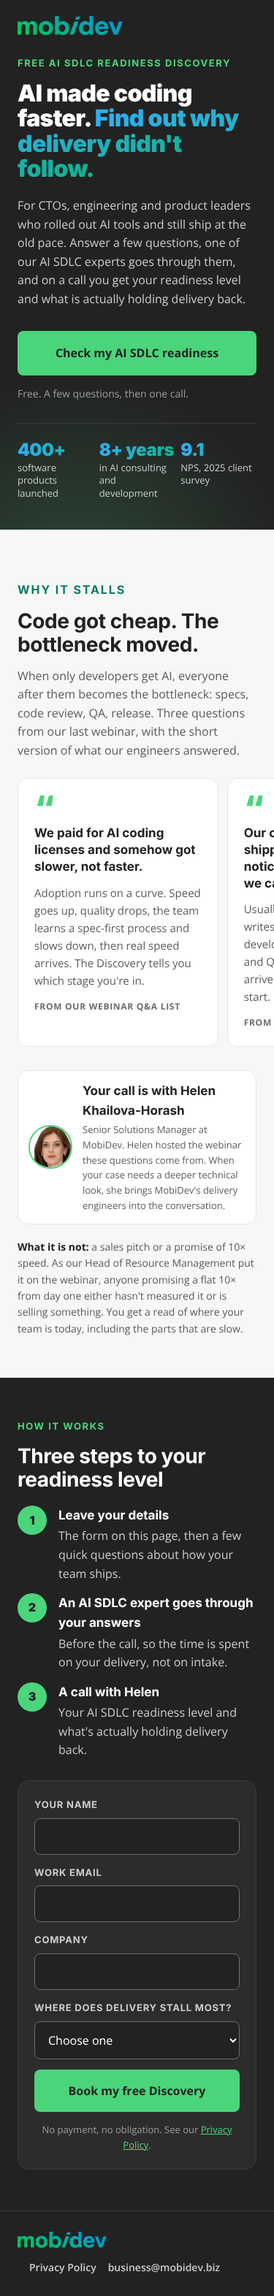
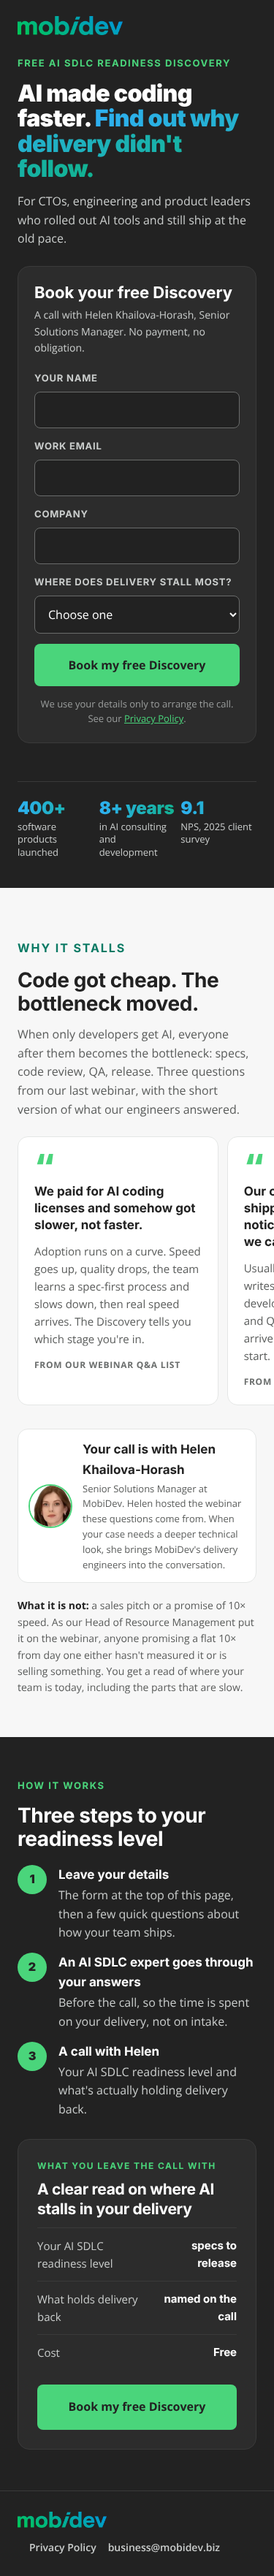
Discovery landing: form on the first screen
Claude-Session: https://claude.ai/code/session_01Gck22a7G1bTGKXM5NbKb3E

diff --git a/ai-sdlc-discovery.html b/ai-sdlc-discovery.html
@@ -60,15 +60,18 @@ a{color:inherit}
 /* screen 1: hero */
 .top{position:absolute;top:0;left:0;right:0;z-index:3;padding:22px 0}
 .top img{height:26px;width:auto;display:block}
-.hero{background:var(--black);color:var(--white);position:relative;overflow:hidden;min-height:100svh;display:flex;align-items:center;padding:96px 0 56px}
+.hero{background:var(--black);color:var(--white);position:relative;overflow:hidden;min-height:100svh;display:flex;align-items:center;padding:96px 0 48px}
 .hero::after{content:"";position:absolute;inset:auto -10% -55% auto;width:620px;height:620px;border-radius:50%;background:radial-gradient(circle,rgba(74,213,123,.22) 0%,rgba(34,34,34,0) 68%);pointer-events:none}
-.hero-in{position:relative;z-index:2;display:grid;grid-template-columns:1.1fr .9fr;gap:56px;align-items:center}
+.hero-in{position:relative;z-index:2;display:grid;grid-template-columns:1.1fr .9fr;grid-template-areas:"copy form" "facts form";column-gap:56px;align-items:start}
+.hero-copy{grid-area:copy;align-self:end}
+.hero form{grid-area:form;align-self:center}
+.hero .facts{grid-area:facts;align-self:start;display:grid;grid-template-columns:repeat(3,auto);justify-content:start}
+.form-h{font-family:var(--font-display);font-weight:700;font-size:22px;color:var(--white);line-height:1.25}
+.form-sub{font-size:14px;color:#C9CCCB;margin:6px 0 20px}
 .hero .eyebrow{color:var(--green)}
 .hero h1{color:var(--white)}
 .hero h1 em{font-style:normal;background:var(--grad);-webkit-background-clip:text;background-clip:text;color:transparent}
 .hero-sub{color:#C9CCCB;font-size:clamp(16px,1vw + 8px,19px);margin-top:20px;max-width:560px}
-.hero-cta{margin-top:30px;display:flex;flex-wrap:wrap;align-items:center;gap:14px 18px}
-.hero-cta span{color:#9A9D9C;font-size:14px}
 .facts{list-style:none;display:flex;flex-wrap:wrap;gap:10px 28px;margin-top:36px;padding-top:24px;border-top:1px solid #3A3A3A}
 .facts li{color:#C9CCCB;font-size:14px}
 .facts b{display:block;font-family:var(--font-display);font-weight:900;font-size:28px;letter-spacing:-.02em;background:var(--grad);-webkit-background-clip:text;background-clip:text;color:transparent}
@@ -132,8 +135,11 @@ footer{background:var(--black);color:#9A9D9C;border-top:1px solid #3A3A3A;paddin
 
 @media(max-width:900px){
   .hero{padding:76px 0 40px;min-height:auto}
-  .hero-in,.start-in{grid-template-columns:1fr;gap:28px}
-  .hero .card{display:none} /* the offer and "Free" are already in the copy and the CTA line */
+  .hero-in{grid-template-columns:1fr;grid-template-areas:"copy" "form" "facts";row-gap:24px}
+  .start-in{grid-template-columns:1fr;gap:28px}
+  .hero-sub{margin-top:14px}
+  .hero-sub .more{display:none} /* on a phone the form card says the rest */
+  .hero .facts{grid-template-columns:repeat(3,1fr)}
   .facts{display:grid;grid-template-columns:repeat(3,1fr);gap:8px;margin-top:28px;padding-top:20px}
   .facts li{font-size:13px;line-height:1.35}
   .facts b{font-size:24px}
@@ -153,40 +159,66 @@ footer{background:var(--black);color:#9A9D9C;border-top:1px solid #3A3A3A;paddin
   form{padding:22px}
   .f-row{margin-bottom:14px}
   .sticky.on{display:block}
-  .hero-cta .btn{width:100%}
 }
 @media(prefers-reduced-motion:reduce){html{scroll-behavior:auto}.btn{transition:none}}
 </style>
 </head>
 <body>
 
-<!-- SCREEN 1 · hero -->
+<!-- SCREEN 1 · hero with the form -->
 <header class="hero" id="top">
   <div class="top"><div class="wrap"><img src="mobidev-logo.png" alt="MobiDev" width="104" height="26"></div></div>
   <div class="wrap hero-in">
-    <div>
+    <div class="hero-copy">
       <p class="eyebrow">Free AI SDLC Readiness Discovery</p>
       <h1>AI made coding faster. <em>Find out why delivery didn't follow.</em></h1>
-      <p class="hero-sub">For CTOs, engineering and product leaders who rolled out AI tools and still ship at the old pace. Answer a few questions, one of our AI SDLC experts goes through them, and on a call you get your readiness level and what is actually holding delivery back.</p>
-      <div class="hero-cta">
-        <a class="btn btn-primary" href="#start" data-ev="cta_hero">Check my AI SDLC readiness</a>
-        <span>Free. A few questions, then one call.</span>
-      </div>
-      <!-- figures as published on mobidev.biz (checked 2026-11-02) -->
-      <ul class="facts" aria-label="MobiDev in numbers">
-        <li><b>400+</b>software products launched</li>
-        <li><b>8+ years</b>in AI consulting and development</li>
-        <li><b>9.1</b>NPS, 2025 client survey</li>
-      </ul>
+      <p class="hero-sub">For CTOs, engineering and product leaders who rolled out AI tools and still ship at the old pace.<span class="more"> Leave your details, an AI SDLC expert goes through your answers, and on a call you get your readiness level and what is actually holding delivery back.</span></p>
     </div>
-    <aside class="card" aria-labelledby="get-h">
-      <p class="lbl">What you leave the call with</p>
-      <h2 id="get-h">A clear read on where AI stalls in your delivery</h2>
-      <div class="row"><span>Your AI SDLC readiness level</span><b>specs to release</b></div>
-      <div class="row"><span>What holds delivery back</span><b>named on the call</b></div>
-      <div class="row"><span>Who you talk to</span><b>Helen Khailova-Horash, Senior Solutions Manager</b></div>
-      <div class="row"><span>Cost</span><b>Free</b></div>
-    </aside>
+      <form id="f" name="ai-sdlc-discovery" method="POST" data-netlify="true" netlify-honeypot="company-website" novalidate>
+        <div class="fields">
+          <p class="form-h">Book your free Discovery</p>
+          <p class="form-sub">A call with Helen Khailova-Horash, Senior Solutions Manager. No payment, no obligation.</p>
+          <input type="hidden" name="form-name" value="ai-sdlc-discovery">
+          <p hidden><label>Leave this empty <input name="company-website" tabindex="-1" autocomplete="off"></label></p>
+          <div class="f-row">
+            <label for="name">Your name</label>
+            <input id="name" name="name" autocomplete="name" required aria-describedby="name-err">
+            <p class="err" id="name-err">Please enter your name.</p>
+          </div>
+          <div class="f-row">
+            <label for="email">Work email</label>
+            <input id="email" type="email" name="email" autocomplete="email" required aria-describedby="email-err">
+            <p class="err" id="email-err">Please enter a valid email.</p>
+          </div>
+          <div class="f-row">
+            <label for="company">Company</label>
+            <input id="company" name="company" autocomplete="organization">
+          </div>
+          <div class="f-row">
+            <label for="stall">Where does delivery stall most?</label>
+            <select id="stall" name="stall">
+              <option value="">Choose one</option>
+              <option>Specs and requirements</option>
+              <option>Code review</option>
+              <option>QA and testing</option>
+              <option>Legacy code</option>
+              <option>Not sure yet</option>
+            </select>
+          </div>
+          <button type="submit" class="btn btn-primary btn-full" id="send">Book my free Discovery</button>
+          <p class="f-note">We use your details only to arrange the call. See our <a href="privacy.html">Privacy Policy</a>.</p>
+        </div>
+        <div class="done" role="status" aria-live="polite">
+          <h3>Thanks, it's on our side now</h3>
+          <p>We'll get back to you by email with the next step.</p>
+        </div>
+      </form>
+    <!-- figures as published on mobidev.biz (checked 2026-11-02) -->
+    <ul class="facts" aria-label="MobiDev in numbers">
+      <li><b>400+</b>software products launched</li>
+      <li><b>8+ years</b>in AI consulting and development</li>
+      <li><b>9.1</b>NPS, 2025 client survey</li>
+    </ul>
   </div>
 </header>
 
@@ -224,57 +256,27 @@ footer{background:var(--black);color:#9A9D9C;border-top:1px solid #3A3A3A;paddin
   </div>
 </section>
 
-<!-- SCREEN 3 · steps and the form -->
+<!-- SCREEN 3 · how it works and what you leave with -->
 <section class="start" id="start" aria-labelledby="start-h">
   <div class="wrap start-in">
     <div>
       <p class="eyebrow" style="color:var(--green)">How it works</p>
       <h2 id="start-h">Three steps to your readiness level</h2>
       <ol class="steps">
-        <li><div><b>Leave your details</b>The form on this page, then a few quick questions about how your team ships.</div></li>
+        <li><div><b>Leave your details</b>The form at the top of this page, then a few quick questions about how your team ships.</div></li>
         <li><div><b>An AI SDLC expert goes through your answers</b>Before the call, so the time is spent on your delivery, not on intake.</div></li>
         <li><div><b>A call with Helen</b>Your AI SDLC readiness level and what's actually holding delivery back.</div></li>
       </ol>
       <p class="soft" id="soft" hidden>Not ready for a call? <a href="#" id="soft-link" data-ev="soft_checklist">Download the free AI-Driven Modernization Readiness Checklist</a>.</p>
     </div>
-
-    <form id="f" name="ai-sdlc-discovery" method="POST" data-netlify="true" netlify-honeypot="company-website" novalidate>
-      <div class="fields">
-        <input type="hidden" name="form-name" value="ai-sdlc-discovery">
-        <p hidden><label>Leave this empty <input name="company-website" tabindex="-1" autocomplete="off"></label></p>
-        <div class="f-row">
-          <label for="name">Your name</label>
-          <input id="name" name="name" autocomplete="name" required aria-describedby="name-err">
-          <p class="err" id="name-err">Please enter your name.</p>
-        </div>
-        <div class="f-row">
-          <label for="email">Work email</label>
-          <input id="email" type="email" name="email" autocomplete="email" required aria-describedby="email-err">
-          <p class="err" id="email-err">Please enter a valid email.</p>
-        </div>
-        <div class="f-row">
-          <label for="company">Company</label>
-          <input id="company" name="company" autocomplete="organization">
-        </div>
-        <div class="f-row">
-          <label for="stall">Where does delivery stall most?</label>
-          <select id="stall" name="stall">
-            <option value="">Choose one</option>
-            <option>Specs and requirements</option>
-            <option>Code review</option>
-            <option>QA and testing</option>
-            <option>Legacy code</option>
-            <option>Not sure yet</option>
-          </select>
-        </div>
-        <button type="submit" class="btn btn-primary btn-full" id="send">Book my free Discovery</button>
-        <p class="f-note">No payment, no obligation. See our <a href="privacy.html">Privacy Policy</a>.</p>
-      </div>
-      <div class="done" role="status" aria-live="polite">
-        <h3>Thanks, it's on our side now</h3>
-        <p>We'll get back to you by email with the next step.</p>
-      </div>
-    </form>
+    <aside class="card" aria-labelledby="get-h">
+      <p class="lbl">What you leave the call with</p>
+      <h2 id="get-h">A clear read on where AI stalls in your delivery</h2>
+      <div class="row"><span>Your AI SDLC readiness level</span><b>specs to release</b></div>
+      <div class="row"><span>What holds delivery back</span><b>named on the call</b></div>
+      <div class="row"><span>Cost</span><b>Free</b></div>
+      <a class="btn btn-primary btn-full" href="#f" data-ev="cta_bottom" style="margin-top:20px">Book my free Discovery</a>
+    </aside>
   </div>
 </section>
 </main>
@@ -286,7 +288,7 @@ footer{background:var(--black);color:#9A9D9C;border-top:1px solid #3A3A3A;paddin
   </div>
 </footer>
 
-<div class="sticky" id="sticky"><a class="btn btn-primary btn-full" href="#start" data-ev="cta_sticky">Check my AI SDLC readiness</a></div>
+<div class="sticky" id="sticky"><a class="btn btn-primary btn-full" href="#f" data-ev="cta_sticky">Book my free Discovery</a></div>
 
 <script>
 /* ─────────────────────────────────────────────────────────────
